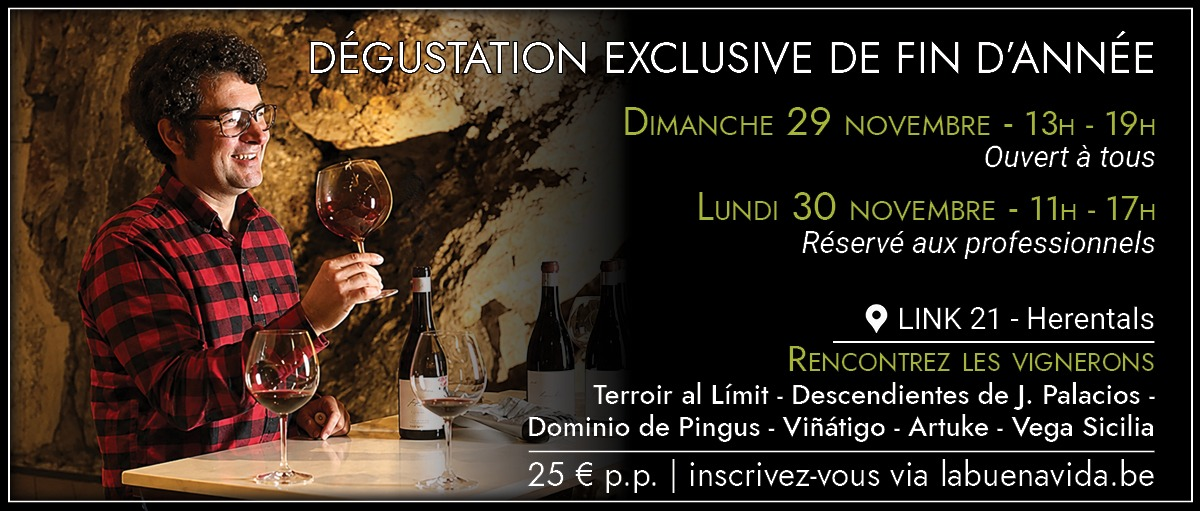
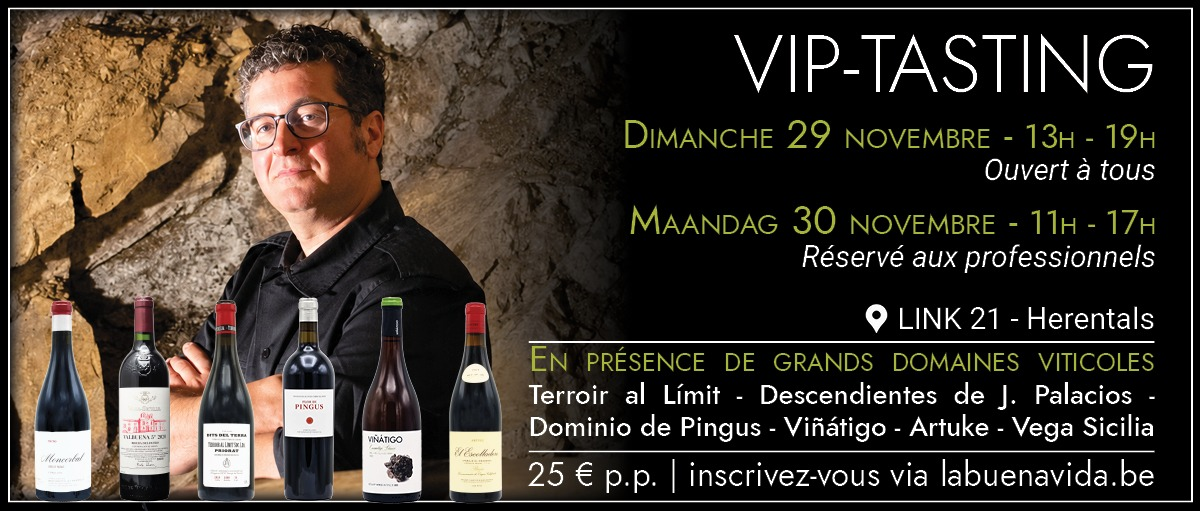
Add files via upload

diff --git a/index.html b/index.html
@@ -258,17 +258,17 @@
   "greetingNl": "Met vriendelijke groeten",
   "greetingFr": "Bien cordialement",
   "noticeEnabledNl": true,
-  "noticeTextNl": "Klik op de banner en reserveer uw plaats voor onze Exclusieve Eindejaarsdegustatie",
+  "noticeTextNl": "Reserveer via de banner en zet onze exclusieve eindejaarsdegustatie in uw agenda",
   "noticeEnabledFr": true,
   "noticeTextFr": "Cliquez sur la bannière et réservez pour notre Dégustation Exclusive de fin d’année.",
   "bannerEnabledNl": true,
   "bannerImageNl": "https://vidalabuenavida.github.io/labuenavida.githhub.io/banner-nl.jpg",
   "bannerLinkNl": "https://www.labuenavida.be/exclusieve-eindejaarsdegustatie-2026",
-  "bannerAltNl": "Grote Herfstdegustatie 2026, 3 en 4 oktober",
+  "bannerAltNl": "VIP-tasting 2026, 29 en 30 november",
   "bannerEnabledFr": true,
   "bannerImageFr": "https://vidalabuenavida.github.io/labuenavida.githhub.io/banner-fr.jpg",
   "bannerLinkFr": "https://www.labuenavida.be/fr/exclusieve-eindejaarsdegustatie-2026",
-  "bannerAltFr": "Grande dégustation d’automne 2026, 3 et 4 octobre",
+  "bannerAltFr": "VIP-tasting 2026, 29 et 30 novembre",
   "websiteText": "www.labuenavida.be",
   "websiteUrlNl": "https://www.labuenavida.be/",
   "websiteUrlFr": "https://www.labuenavida.be/fr/",
